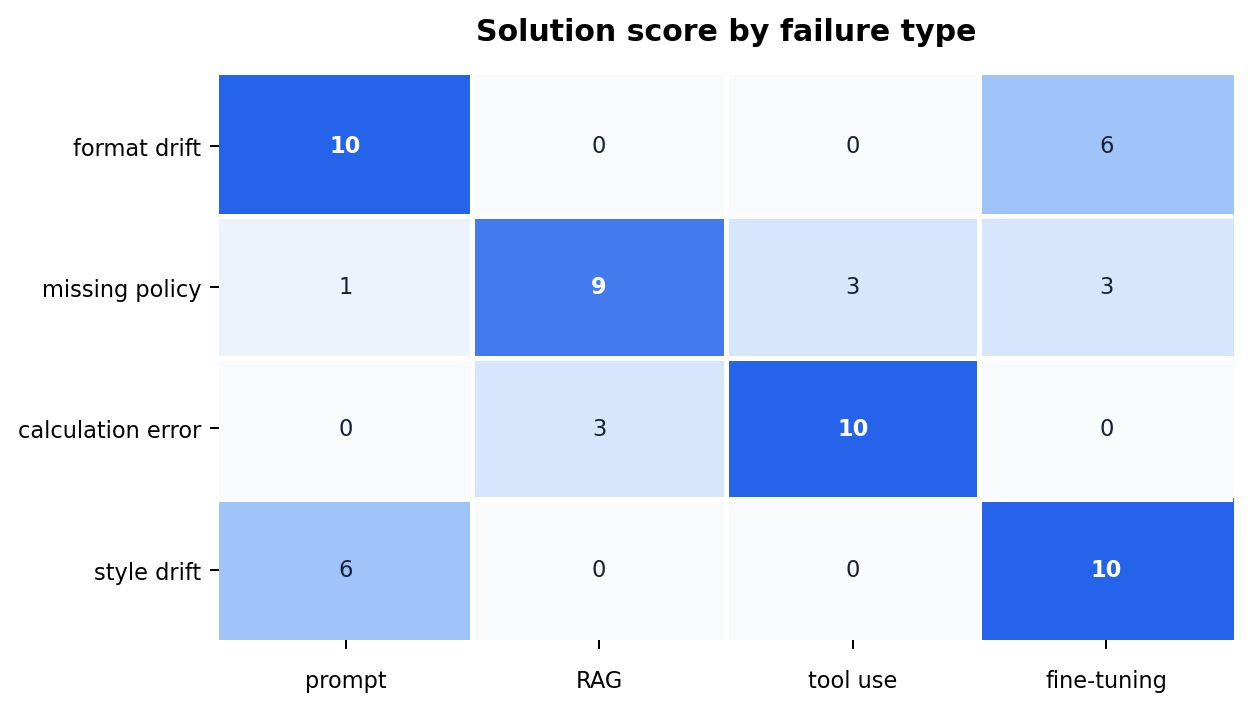
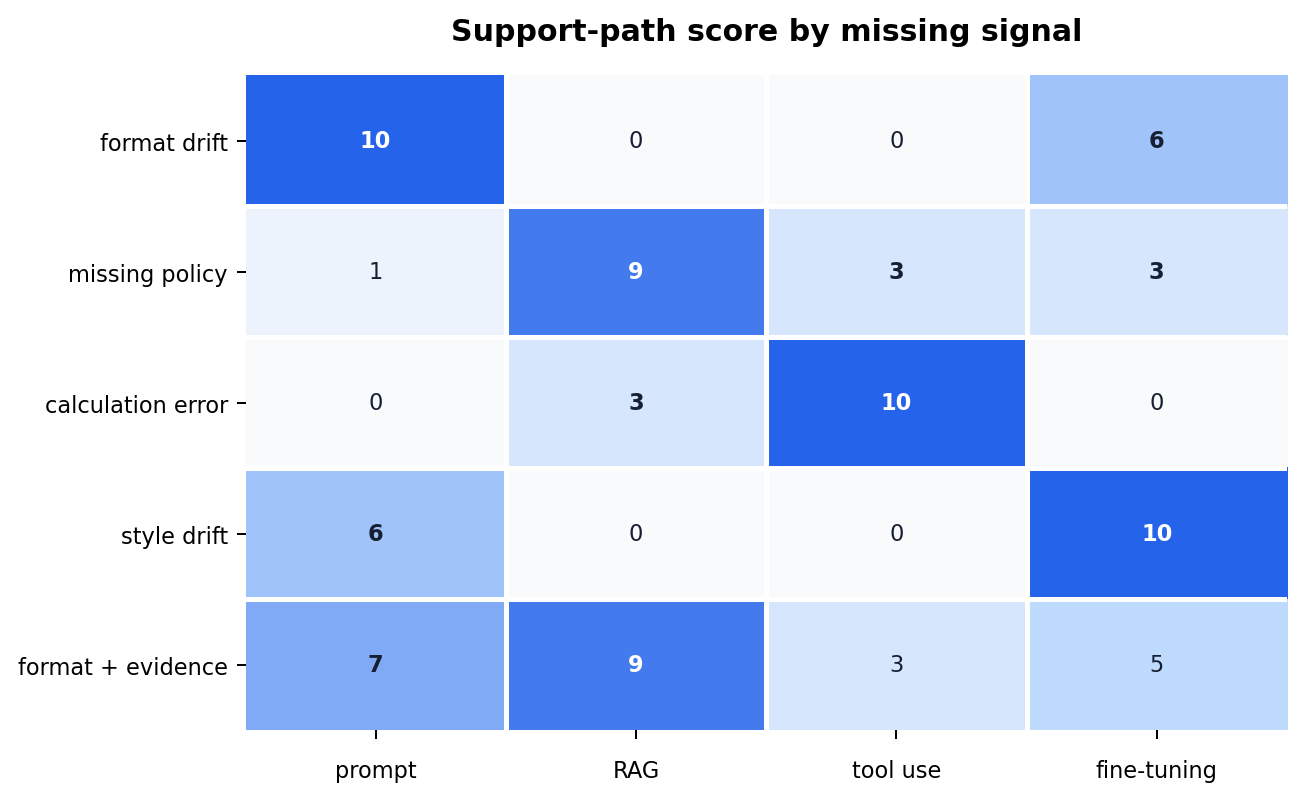
Improve P6-9.3 failure diagnosis section

diff --git a/docs/assets/part-06/chapter-09/p6_9_3_solution_selection_chart.py b/docs/assets/part-06/chapter-09/p6_9_3_solution_selection_chart.py
@@ -16,12 +16,35 @@ from matplotlib.colors import LinearSegmentedColormap
 
 OUT_DIR = Path(__file__).resolve().parent
 
-SCORES = [
-    [10, 0, 0, 6],
-    [1, 9, 3, 3],
-    [0, 3, 10, 0],
-    [6, 0, 0, 10],
+CASES = [
+    {
+        "issue": "format drift",
+        "signals": {"format": 3, "evidence": 0, "execution": 0, "persistent_style": 1},
+    },
+    {
+        "issue": "missing latest policy",
+        "signals": {"format": 0, "evidence": 3, "execution": 0, "persistent_style": 1},
+    },
+    {
+        "issue": "needs calculator",
+        "signals": {"format": 0, "evidence": 1, "execution": 3, "persistent_style": 0},
+    },
+    {
+        "issue": "persistent domain style",
+        "signals": {"format": 1, "evidence": 0, "execution": 0, "persistent_style": 3},
+    },
+    {
+        "issue": "mixed format and policy evidence",
+        "signals": {"format": 2, "evidence": 3, "execution": 0, "persistent_style": 1},
+    },
 ]
+
+WEIGHTS = {
+    "prompt revision": {"format": 3, "evidence": 0, "execution": 0, "persistent_style": 1},
+    "RAG": {"format": 0, "evidence": 3, "execution": 0, "persistent_style": 0},
+    "tool use": {"format": 0, "evidence": 1, "execution": 3, "persistent_style": 0},
+    "fine-tuning": {"format": 1, "evidence": 0, "execution": 0, "persistent_style": 3},
+}
 
 LANG_TEXT = {
     "ko": {
@@ -34,18 +57,30 @@ LANG_TEXT = {
             "DejaVu Sans",
         ],
         "outfile": "solution-selection-score-map-ko.png",
-        "title": "실패 유형별 우선 수단 점수",
-        "rows": ["형식 흔들림", "최신 규정 오류", "계산 오류", "문체 불안정"],
+        "title": "부족 신호별 보강 경로 점수",
+        "rows": ["형식 흔들림", "최신 규정 오류", "계산 오류", "문체 불안정", "형식+근거 복합"],
         "columns": ["프롬프트", "RAG", "도구 사용", "파인튜닝"],
     },
     "en": {
         "font_candidates": ["DejaVu Sans", "Arial Unicode MS"],
         "outfile": "solution-selection-score-map-en.png",
-        "title": "Solution score by failure type",
-        "rows": ["format drift", "missing policy", "calculation error", "style drift"],
+        "title": "Support-path score by missing signal",
+        "rows": ["format drift", "missing policy", "calculation error", "style drift", "format + evidence"],
         "columns": ["prompt", "RAG", "tool use", "fine-tuning"],
     },
 }
+
+
+def score_action(signals: dict[str, int], action_name: str) -> int:
+    action_weights = WEIGHTS[action_name]
+    return sum(signals[key] * action_weights[key] for key in signals)
+
+
+def calculate_scores() -> list[list[int]]:
+    return [
+        [score_action(case["signals"], action_name) for action_name in WEIGHTS]
+        for case in CASES
+    ]
 
 
 def choose_font(candidates: list[str]) -> str:
@@ -63,15 +98,16 @@ def configure_font(text: dict[str, object]) -> None:
 
 def save_chart(text: dict[str, object]) -> None:
     configure_font(text)
+    scores = calculate_scores()
     cmap = LinearSegmentedColormap.from_list(
         "selection_score",
         ["#f8fafc", "#bfdbfe", "#2563eb"],
     )
 
-    fig, ax = plt.subplots(figsize=(7.0, 4.0), dpi=180)
+    fig, ax = plt.subplots(figsize=(7.3, 4.5), dpi=180)
     fig.patch.set_facecolor("white")
     ax.set_facecolor("white")
-    ax.imshow(SCORES, cmap=cmap, vmin=0, vmax=10, aspect="auto")
+    ax.imshow(scores, cmap=cmap, vmin=0, vmax=10, aspect="auto")
 
     ax.set_title(text["title"], fontsize=12, pad=14, fontweight="bold")
     ax.set_xticks(range(len(text["columns"])), text["columns"])
@@ -84,18 +120,22 @@ def save_chart(text: dict[str, object]) -> None:
     ax.grid(which="minor", color="white", linewidth=2.0)
     ax.tick_params(which="minor", bottom=False, left=False)
 
-    for row_index, row in enumerate(SCORES):
+    for row_index, row in enumerate(scores):
         row_max = max(row)
+        row_sorted = sorted(row, reverse=True)
+        second_value = row_sorted[1]
         for col_index, value in enumerate(row):
+            is_first = value == row_max
+            is_second = value == second_value and value != row_max and value > 0
             ax.text(
                 col_index,
                 row_index,
                 str(value),
                 ha="center",
                 va="center",
-                color="white" if value == row_max and value >= 9 else "#172033",
+                color="white" if is_first and value >= 9 else "#172033",
                 fontsize=9,
-                fontweight="bold" if value == row_max else "normal",
+                fontweight="bold" if is_first or is_second else "normal",
             )
 
     for spine in ax.spines.values():

diff --git a/management/release-notes/sections/part-06/P6-9.3.md b/management/release-notes/sections/part-06/P6-9.3.md
@@ -7,6 +7,14 @@
 
 - 변경 이유: Part 6 본문에서 진행 메타형 소제목을 구체 개념, 비교 대상, 판단 기준이 드러나는 제목으로 정리하기 위함.
 - 본문 반영: `여기서 남겨야 할 구분`, `여기까지를 한 줄로 묶으면`, `보는 순서`, `이 예제를 ... 다시 보면` 계열 제목을 현재 절의 실제 구분 축과 설명 흐름이 보이는 소제목으로 바꾸었다.
+- 본문 반영: Section 제목과 도입 질문을 기술 선택보다 실패 원인 진단 중심으로 바꾸어, `형식`, `근거`, `실행`, `지속 적응` 중 무엇이 부족한지 먼저 나누는 전환 절로 재정렬했다.
+- 본문 반영: P6-9.4와 P6-9.5를 파인튜닝 축으로 판단이 갔을 때 이어지는 효율적 조정 보충학습으로 연결하고, 프롬프트·RAG·도구 사용의 세부 설명은 다음 Module에서 본격화된다는 경계를 보강했다.
+- 본문 반영: Python 예제에 복합 실패 사례와 2순위 보강 경로 출력을 추가하고, 해결 수단 점수 그래프와 도식을 부족 신호별 보강 경로 중심으로 갱신했다.
+- 본문 반영: Python 예제의 내부 신호명을 `knowledge`에서 `evidence`로 바꾸어 본문의 `근거` 축과 맞추고, 점수가 실제 자동 선택 결과가 아니라 진단 연습용 가중치라는 해설을 보강했다.
+- 본문 반영: `형식`, `근거`, `실행`, `지속 적응`이 서로 다른 손댈 위치라는 점을 예시와 비교표로 풀고, Python 예제 전에 손으로 먼저 부족 신호를 표시하는 흡수구간을 추가했다.
+- 본문 반영: 애매한 실패 기록을 요구, 실제 답의 어긋남, 1순위 보강, 남는 2순위 문제로 쪼개는 판정 순서를 추가하고, 복합 실패 장면을 직접 표시한 뒤 해설과 대조하는 연습을 보강했다.
+- 본문 반영: `프롬프트를 먼저 볼 때`, `RAG를 붙여야 할 때`처럼 수단을 앞세우던 소제목을 `형식 신호`, `근거 신호`, `실행 신호`, `지속 적응 신호` 중심으로 바꾸어 실패 원인 진단축을 강화했다.
+- 본문 반영: 사례와 예제 해설에 남아 있던 `붙인다`, `해결 수단 선택` 계열 표현을 `근거 연결`, `실행 신호`, `보강 경로`, `부족 신호 진단` 중심 문장으로 정리했다.
 - 번역 동기화 메모: 향후 번역본도 진행 안내형 제목보다 현재 절의 구체 개념, 비교 대상, 판단 기준이 보이는 소제목으로 맞춘다.
 - 번역 반영 상태: 한국어 원문만 수정했다.
 - 원문 기준 버전: `v2026.07.22`

diff --git a/docs/table-of-contents.md b/docs/table-of-contents.md
@@ -718,7 +718,7 @@ flowchart LR
 
 - **P6-9.1 지시 튜닝은 어떻게 요청 형식에 맞는 응답 습관을 만드는가**: 사용자 지시를 따르는 응답 습관을 봅니다.
 - **P6-9.2 정렬은 왜 잘 따르는 답과 허용 가능한 답을 나누는가**: 유용성, 안전성, 사실성, 거절 기준을 함께 맞추는 문제를 봅니다.
-- **P6-9.3 프롬프트, 파인튜닝, RAG, 도구 사용을 언제 고를까**: 실패 원인별 보강 수단을 고르는 기준을 봅니다.
+- **P6-9.3 LLM 실패는 먼저 무엇이 부족한지 나누어 본다**: 형식, 근거, 실행, 지속 적응 중 무엇이 부족한지 먼저 진단하는 기준을 봅니다.
 - **P6-9.4 보충학습: LoRA의 low-rank는 무엇을 작게 표현하는가**: LoRA 이름과 low-rank 조정분의 규모 감각을 봅니다.
 - **P6-9.5 보충학습: adapter, LoRA, QLoRA는 어떤 제약에서 갈리는가**: 비용, 구조, 메모리 제약으로 효율적 조정 이름을 구분합니다.
 

diff --git a/management/authoring/part-06-restructure-proposal.md b/management/authoring/part-06-restructure-proposal.md
@@ -115,7 +115,7 @@ Module 4. 응답 습관을 만드는 학습과 조정
   Chapter 9. 지시 튜닝과 정렬
     P6-9.1 지시 튜닝은 어떻게 요청 형식에 맞는 응답 습관을 만드는가
     P6-9.2 정렬은 왜 잘 따르는 답과 허용 가능한 답을 나누는가
-    P6-9.3 프롬프트, 파인튜닝, RAG, 도구 사용을 언제 고를까
+    P6-9.3 LLM 실패는 먼저 무엇이 부족한지 나누어 본다
     P6-9.4 보충학습: adapter, LoRA, QLoRA는 어떤 제약에서 갈리는가
 
 Module 5. 프롬프트와 근거 보강
